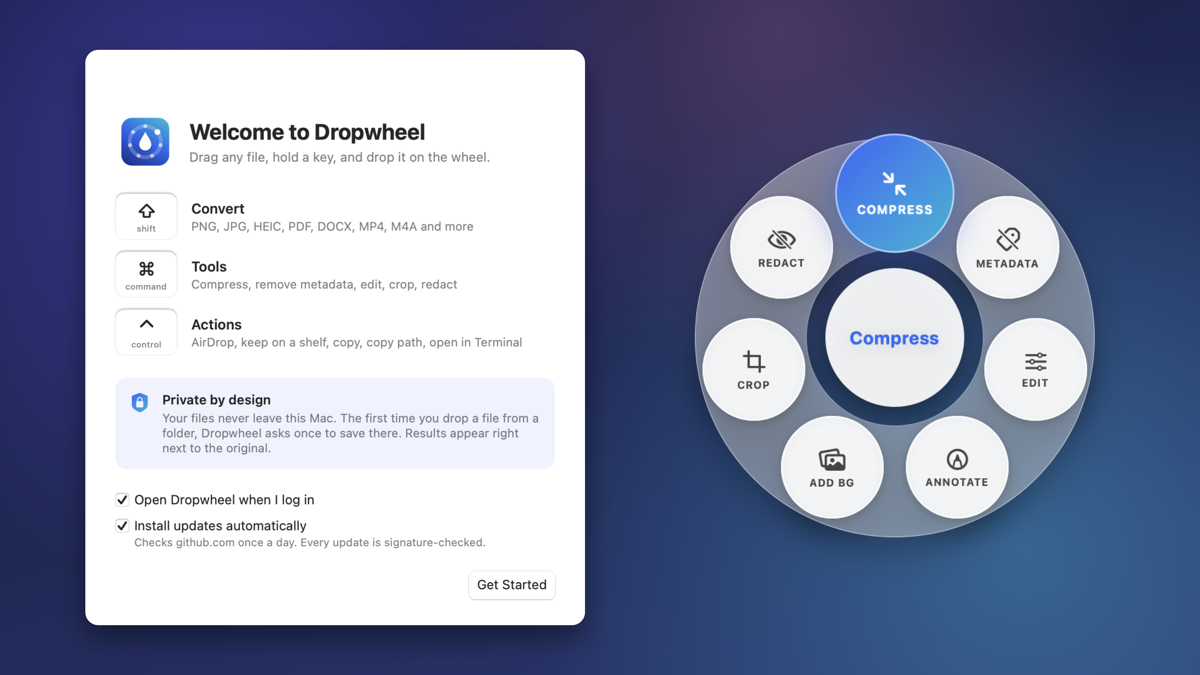
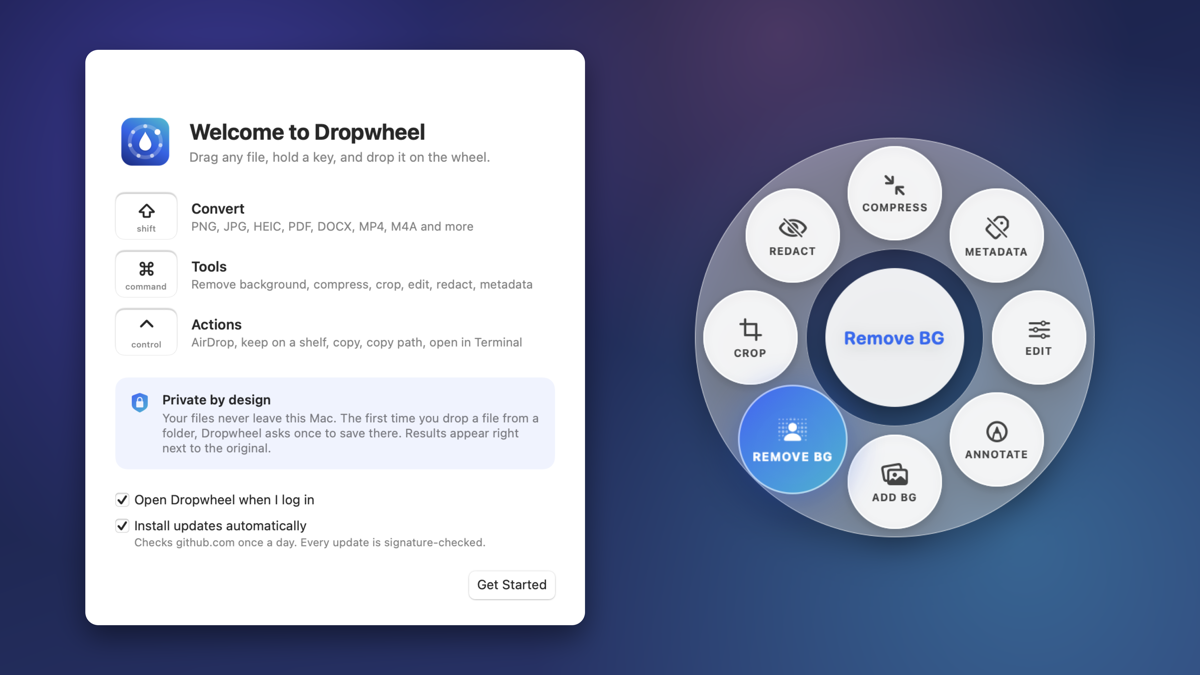
Document Remove BG: screenshot, README section, privacy notes
- README: a Remove BG section with a before/after image (public-domain USFWS fox photo),
  what it works best on, and a privacy bullet.
- Welcome image shows the Tools wheel with Remove BG; the welcome window lists it first.
- In-app Privacy & Security mentions that Remove BG runs on the Mac.
- dropwheel-cli background: --cutout and --square.

Changed region(s): [[0.5858, 0.1867, 0.925, 0.8089], [0.1542, 0.4044, 0.4317, 0.4356]]

diff --git a/Sources/dropwheel-cli/main.swift b/Sources/dropwheel-cli/main.swift
@@ -6,7 +6,7 @@ import DropwheelCore
 //   dropwheel-cli list <file>                     what the wheel would offer
 //   dropwheel-cli run <action> <file> [out-dir]   action = jpg, png, pdf, docx, ..., compress, clean, half, rotate
 //   dropwheel-cli crop x,y,w,h <image>            crop (pixels, top-left origin)
-//   dropwheel-cli background <image>              default "Add BG" style
+//   dropwheel-cli background <image> [--cutout] [--square]   default "Add BG" style; --cutout removes the original background first
 //   dropwheel-cli edit rotate|flip|warm|half <image>
 //   dropwheel-cli redact x,y,w,h <image>          normalised rect, black box
 //   dropwheel-cli annotate <image>                sample arrow, box and text
@@ -72,7 +72,9 @@ case "background":
     let source = URL(fileURLWithPath: arguments[1])
     do {
         let size = try ImageEditing.preview(source, maxEdge: 64).fullSize
-        let style = CanvasStyle.defaults(for: size, fill: .gradient([RGBA(hex: 0xFFB347), RGBA(hex: 0xF2545B), RGBA(hex: 0xB83280)], angle: 45))
+        var style = CanvasStyle.defaults(for: size, fill: .gradient([RGBA(hex: 0x3D63FA), RGBA(hex: 0x06B6D4)], angle: 45))
+        style.removeBackground = arguments.contains("--cutout")
+        if arguments.contains("--square") { style.ratio = .square }
         print(try await Converter().addBackground(source, style: style, into: source.deletingLastPathComponent()).path)
     } catch {
         fail("error: \(error.localizedDescription)")

diff --git a/Sources/Dropwheel/AppDelegate.swift b/Sources/Dropwheel/AppDelegate.swift
@@ -267,6 +267,7 @@ final class AppDelegate: NSObject, NSApplicationDelegate, NSMenuDelegate {
             • It reads and saves only in folders you allow (asked once per folder). macOS gives that permission as read and write for the whole folder, so allow only the folders you use.
             • Originals are never changed, moved or overwritten.
             • Converted images drop location, device and owner metadata. The Metadata tool removes all of it from photos, PDFs (document info, XMP, comment authors) and videos. Redact saves with no metadata at all.
+            • Remove BG uses Apple's Vision model on this Mac; your photo is not uploaded.
             • Every file Dropwheel writes carries macOS's quarantine flag.
             • No analytics, no accounts. Apart from Sparkle, no third-party code. File names are kept out of system logs.
             """

diff --git a/Sources/Dropwheel/Onboarding.swift b/Sources/Dropwheel/Onboarding.swift
@@ -63,7 +63,7 @@ private struct OnboardingView: View {
 
             VStack(spacing: 12) {
                 KeyRow(symbol: "⇧", name: "shift", title: "Convert", detail: "PNG, JPG, HEIC, PDF, DOCX, MP4, M4A and more")
-                KeyRow(symbol: "⌘", name: "command", title: "Tools", detail: "Compress, remove metadata, edit, crop, redact")
+                KeyRow(symbol: "⌘", name: "command", title: "Tools", detail: "Remove background, compress, crop, edit, redact, metadata")
                 KeyRow(symbol: "⌃", name: "control", title: "Actions", detail: "AirDrop, keep on a shelf, copy, copy path, open in Terminal")
             }
 

diff --git a/README.md b/README.md
@@ -10,7 +10,7 @@ appears beside the cursor; drop the file on one of its drops.
 
 ![Dragging photo.jpg with Shift held: the Dropwheel wheel offers PNG, HEIC, PDF, TIFF, GIF and BMP](docs/wheel.png)
 
-![The welcome window explaining the three keys, next to the Tools wheel](docs/welcome.png)
+![The welcome window explaining the three keys, next to the Tools wheel with Remove BG highlighted](docs/welcome.png)
 
 | Key | Ring | What it offers |
 | --- | ---- | -------------- |
@@ -35,10 +35,23 @@ files and mixed selections open the Actions ring.
 Editors (Crop, Add BG, Edit, Annotate, Redact) open a window; the result is saved next to the
 original as "Name cropped.jpg", "Name with background.png", and so on.
 
-**Remove BG** lifts the subject (people, animals, objects) off its background and saves
-"Name no background.png" with transparency. Add BG can do the same first, so the subject stands
-on a new colour or gradient. It uses Apple's Vision model, the one behind "Lift subject" in
-Photos, on your Mac; nothing is uploaded.
+### Remove BG
+
+![A fox photo, the same fox with its background removed, and the fox on a new blue gradient](docs/remove-bg.png)
+
+Drag a photo, hold **⌘ Command** and drop it on **Remove BG**: the subject (people, animals,
+objects) is lifted off its background and saved next to the original as
+"Name no background.png" with a transparent background. In **Add BG**, tick *Remove the original
+background* to place the subject on a new colour or gradient, with a shadow that follows its
+outline.
+
+It uses Apple's Vision model, the one behind "Lift subject" in Photos, and runs entirely on your
+Mac; nothing is uploaded. It works best on photos with a clear subject. Glass, smoke and very
+fine hair against a busy background can leave rough edges, and images without a subject
+(screenshots, documents, landscapes) are refused with a message instead of saving an empty file.
+
+<sub>Fox photo: U.S. Fish and Wildlife Service, Alaska Region,
+[public domain](https://commons.wikimedia.org/wiki/File:Red_fox_(8385096018).jpg).</sub>
 
 Not available, because macOS has no built-in encoder or reader and adding third-party code
 would break the security model below: WebP/AVIF/MP3/OGG/Opus/WMA output, MKV/WebM/AVI input,
@@ -130,6 +143,8 @@ signed and notarized too, so step 3 of Install disappears.
   before it is saved (tested for every format). For PDFs it rebuilds the document without the
   document info and the XMP packet and removes comment authors (comment text stays). Every PDF
   macOS writes names macOS and its version as "Producer"; PDFKit offers no way to change that.
+- **Remove BG** runs Apple's Vision model on the Mac; the photo is not sent anywhere, and the
+  result carries no personal metadata (tested).
 - **Redact** burns black boxes into the pixels and saves with no metadata at all. Pixelate is
   offered too but marked weaker: pixelated text can sometimes be recovered.
 - **Quarantine flag.** Every file Dropwheel writes carries macOS's `com.apple.quarantine` flag (the
